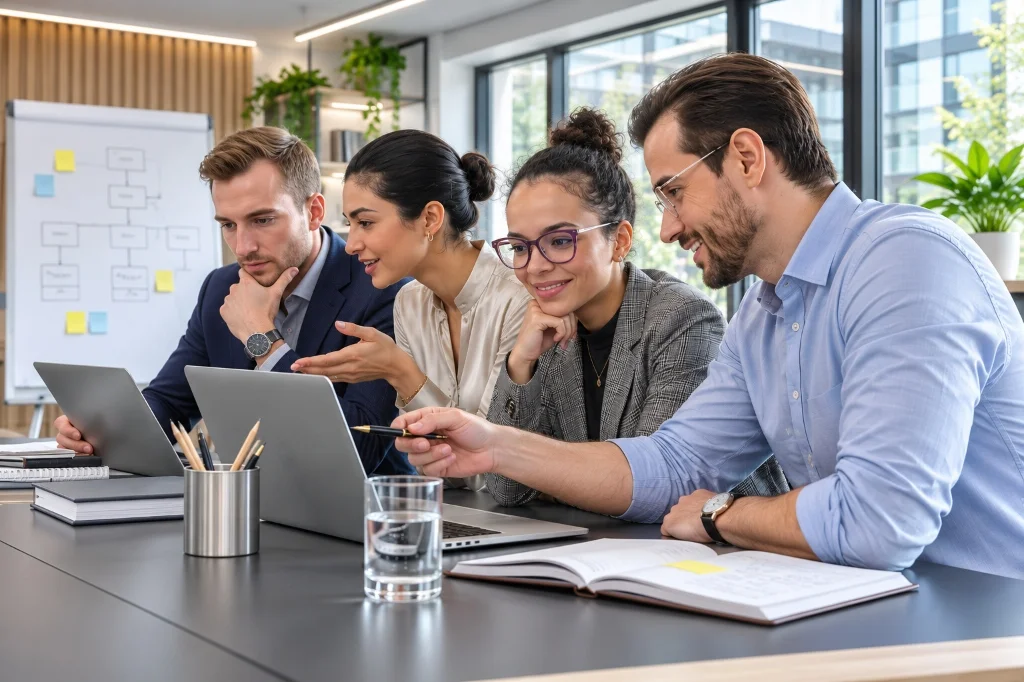
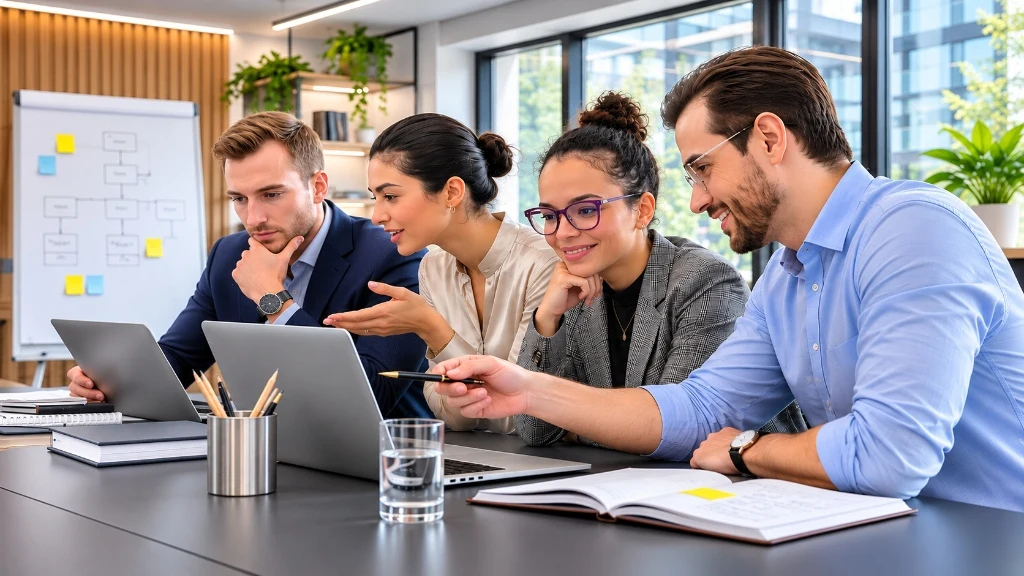
updated images

diff --git a/src/components/services/ServicesHero.tsx b/src/components/services/ServicesHero.tsx
@@ -1,8 +1,28 @@
 "use client";
 
 import Image from "next/image";
+import Link from "next/link";
 import { motion, useReducedMotion } from "framer-motion";
+import { ArrowRight, Calculator, HeartPulse, Laptop } from "lucide-react";
 import { useEffect } from "react";
+
+const serviceHighlights = [
+  {
+    icon: Calculator,
+    title: "Financial Management",
+    desc: "Accounting, bookkeeping and taxation support.",
+  },
+  {
+    icon: HeartPulse,
+    title: "Healthcare Billing",
+    desc: "Structured billing and claims management support.",
+  },
+  {
+    icon: Laptop,
+    title: "Technology Solutions",
+    desc: "IT infrastructure, cloud and technical support.",
+  },
+];
 
 export function ServicesHero() {
   const reduceMotion = useReducedMotion();
@@ -18,17 +38,17 @@ export function ServicesHero() {
   return (
     <section
       aria-labelledby="services-hero-heading"
-      className="relative overflow-hidden bg-[#0C1E2B] pt-20 lg:pt-0 lg:min-h-[540px] xl:min-h-[600px] lg:flex lg:items-center"
+      className="relative overflow-hidden bg-[#0C1E2B] pt-20 lg:pt-0 lg:min-h-[550px] lg:h-[570px] xl:h-[580px] lg:flex lg:items-center"
     >
-      {/* Right Column: Corporate Team Collaboration Photograph on desktop */}
-      <div className="relative w-full aspect-[16/11] sm:aspect-[3/2] lg:aspect-auto lg:absolute lg:inset-y-0 lg:right-0 lg:h-full lg:w-[54%] overflow-hidden">
+      {/* Right Column: Corporate Team Collaboration Photograph (~52% width) */}
+      <div className="relative w-full aspect-[16/9] lg:aspect-auto lg:absolute lg:inset-y-0 lg:right-0 lg:h-full lg:w-[52%] overflow-hidden">
         <Image
           src="/images/services-hero-team.webp"
           alt="PQB Solutions professional team collaborating closely over laptops in a modern office"
           fill
           priority
-          sizes="(max-width: 1024px) 100vw, 54vw"
-          className="object-cover object-[center_15%]"
+          sizes="(max-width: 1024px) 100vw, 52vw"
+          className="object-cover object-[center_12%]"
         />
 
         {/* Mobile vertical gradient transition */}
@@ -62,13 +82,13 @@ export function ServicesHero() {
         </svg>
       </div>
 
-      {/* Left Content Area */}
+      {/* Left Content Area within Container (~48% width, vertically centered) */}
       <div className="shell relative z-20 w-full">
-        <div className="w-full lg:w-[48%] py-12 sm:py-16 lg:py-24 xl:py-28">
+        <div className="w-full lg:w-[48%] py-10 sm:py-14 lg:py-6">
           <motion.div
-            initial={reduceMotion ? { opacity: 0 } : { opacity: 0, y: 22 }}
+            initial={reduceMotion ? { opacity: 0 } : { opacity: 0, y: 20 }}
             animate={{ opacity: 1, y: 0 }}
-            transition={{ duration: reduceMotion ? 0.2 : 0.6, ease: [0.22, 1, 0.36, 1] }}
+            transition={{ duration: reduceMotion ? 0.2 : 0.5, ease: [0.22, 1, 0.36, 1] }}
           >
             {/* Eyebrow */}
             <div className="flex items-center gap-3">
@@ -81,20 +101,59 @@ export function ServicesHero() {
             {/* H1 Main Heading */}
             <h1
               id="services-hero-heading"
-              className="mt-4 font-serif text-3xl font-bold tracking-tight text-white sm:text-4xl lg:text-[2.85rem] lg:leading-[1.18]"
+              className="mt-3.5 font-serif text-3xl font-bold tracking-tight text-white sm:text-4xl lg:text-[2.5rem] xl:text-[2.75rem] lg:leading-[1.16]"
             >
-              Comprehensive Business Support Services
+              Business Solutions That Keep You Moving Forward
             </h1>
 
-            {/* Description */}
-            <p className="mt-4.5 max-w-xl text-[0.98rem] leading-relaxed text-white/85 sm:text-base">
+            {/* Supporting Description */}
+            <p className="mt-3 max-w-xl text-[0.95rem] leading-relaxed text-white/85 sm:text-base">
               A complete range of solutions in accounting, medical billing and IT to help your
               business operate more efficiently.
             </p>
+
+            {/* Compact Service Highlights with Teal Icons */}
+            <ul className="mt-5 space-y-2.5 sm:space-y-3" role="list">
+              {serviceHighlights.map((item) => {
+                const Icon = item.icon;
+                return (
+                  <li key={item.title} className="flex items-start gap-2.5 sm:gap-3">
+                    <div className="mt-0.5 flex h-6 w-6 shrink-0 items-center justify-center rounded-md border border-brand-400/30 bg-brand-500/20 text-brand-300">
+                      <Icon size={13} className="text-brand-300" aria-hidden="true" />
+                    </div>
+                    <p className="text-xs sm:text-[0.875rem] leading-relaxed text-white/85">
+                      <strong className="font-semibold text-white">{item.title}</strong>
+                      <span className="text-white/50"> – </span>
+                      <span>{item.desc}</span>
+                    </p>
+                  </li>
+                );
+              })}
+            </ul>
+
+            {/* Dual CTA Buttons */}
+            <div className="mt-7 flex flex-wrap items-center gap-3 sm:gap-4">
+              <a
+                href="#services-overview"
+                className="group inline-flex items-center gap-2 rounded-full bg-brand-500 px-6 py-3 text-sm font-semibold text-white shadow-md shadow-brand-500/20 transition-all duration-300 hover:bg-brand-600 hover:gap-2.5 hover:-translate-y-0.5 focus-visible:outline-white"
+              >
+                <span>Explore Our Services</span>
+                <ArrowRight
+                  size={15}
+                  className="transition-transform duration-300 group-hover:translate-x-0.5"
+                />
+              </a>
+
+              <Link
+                href="/contact"
+                className="inline-flex items-center rounded-full border border-white/35 px-6 py-3 text-sm font-semibold text-white transition-all duration-300 hover:border-white hover:bg-white/10 hover:-translate-y-0.5 focus-visible:outline-white"
+              >
+                Get in Touch
+              </Link>
+            </div>
           </motion.div>
         </div>
       </div>
     </section>
   );
 }
-

diff --git a/src/components/contact/ContactHero.tsx b/src/components/contact/ContactHero.tsx
@@ -2,7 +2,23 @@
 
 import Image from "next/image";
 import { motion, useReducedMotion } from "framer-motion";
+import { ArrowRight, Calculator, HeartPulse, Laptop } from "lucide-react";
 import { useEffect } from "react";
+
+const serviceOptions = [
+  {
+    icon: Calculator,
+    label: "Accounting & Bookkeeping",
+  },
+  {
+    icon: HeartPulse,
+    label: "Medical Billing Solutions",
+  },
+  {
+    icon: Laptop,
+    label: "IT Solutions",
+  },
+];
 
 export function ContactHero() {
   const reduceMotion = useReducedMotion();
@@ -18,16 +34,16 @@ export function ContactHero() {
   return (
     <section
       aria-labelledby="contact-hero-heading"
-      className="relative overflow-hidden bg-[#0C1E2B] pt-20 lg:pt-0 lg:min-h-[540px] xl:min-h-[600px] lg:flex lg:items-center"
+      className="relative overflow-hidden bg-[#0C1E2B] pt-20 lg:pt-0 lg:min-h-[440px] lg:h-[465px] xl:h-[480px] lg:flex lg:items-center"
     >
-      {/* Right Column: Corporate Team Meeting Photograph */}
-      <div className="relative w-full aspect-[16/11] sm:aspect-[3/2] lg:aspect-auto lg:absolute lg:inset-y-0 lg:right-0 lg:h-full lg:w-[54%] overflow-hidden">
+      {/* Right Column: Corporate Team Meeting Photograph (~50% width on desktop; renders first on mobile) */}
+      <div className="relative w-full aspect-[16/9] sm:aspect-[2/1] lg:aspect-auto lg:absolute lg:inset-y-0 lg:right-0 lg:h-full lg:w-[50%] overflow-hidden">
         <Image
           src="/images/contact-hero-team.webp"
           alt="PQB Solutions professional team collaborating around a conference table with laptops and reports"
           fill
           priority
-          sizes="(max-width: 1024px) 100vw, 54vw"
+          sizes="(max-width: 1024px) 100vw, 50vw"
           className="object-cover object-[center_12%]"
         />
 
@@ -62,13 +78,13 @@ export function ContactHero() {
         </svg>
       </div>
 
-      {/* Left Content Area within Container */}
+      {/* Left Content Area within Container (~50% width, vertically centered) */}
       <div className="shell relative z-20 w-full">
-        <div className="w-full lg:w-[48%] py-12 sm:py-16 lg:py-24 xl:py-28">
+        <div className="w-full lg:w-[50%] py-10 sm:py-12 lg:py-6">
           <motion.div
-            initial={reduceMotion ? { opacity: 0 } : { opacity: 0, y: 22 }}
+            initial={reduceMotion ? { opacity: 0 } : { opacity: 0, y: 18 }}
             animate={{ opacity: 1, y: 0 }}
-            transition={{ duration: reduceMotion ? 0.2 : 0.6, ease: [0.22, 1, 0.36, 1] }}
+            transition={{ duration: reduceMotion ? 0.2 : 0.5, ease: [0.22, 1, 0.36, 1] }}
           >
             {/* Eyebrow */}
             <div className="flex items-center gap-3">
@@ -81,16 +97,52 @@ export function ContactHero() {
             {/* H1 Main Heading */}
             <h1
               id="contact-hero-heading"
-              className="mt-4 font-serif text-3xl font-bold tracking-tight text-white sm:text-4xl lg:text-[2.85rem] lg:leading-[1.18]"
+              className="mt-3.5 font-serif text-3xl font-bold tracking-tight text-white sm:text-4xl lg:text-[2.35rem] xl:text-[2.55rem] lg:leading-[1.18]"
             >
               Let&apos;s Start a Conversation
             </h1>
 
             {/* Description */}
-            <p className="mt-4.5 max-w-xl text-[0.98rem] leading-relaxed text-white/85 sm:text-base">
-              Have a question, need more information or want to discuss your
-              requirements? Our team is here to help.
+            <p className="mt-2.5 max-w-lg text-[0.92rem] leading-relaxed text-white/85 sm:text-[0.975rem]">
+              Have a question or looking for the right business support? Tell us what your
+              business needs. Our team is here to help you explore the right solutions.
             </p>
+
+            {/* Service Enquiry Overview */}
+            <div className="mt-5">
+              <span className="block text-[0.6875rem] font-bold tracking-[0.2em] text-brand-300 uppercase">
+                HOW CAN WE HELP?
+              </span>
+
+              <div className="mt-2.5 flex flex-wrap items-center gap-2 sm:gap-2.5">
+                {serviceOptions.map((service) => {
+                  const Icon = service.icon;
+                  return (
+                    <div
+                      key={service.label}
+                      className="inline-flex items-center gap-2 rounded-full border border-brand-400/30 bg-brand-500/10 px-3 py-1.5 text-xs text-white"
+                    >
+                      <Icon size={13} className="shrink-0 text-brand-300" aria-hidden="true" />
+                      <span className="font-medium">{service.label}</span>
+                    </div>
+                  );
+                })}
+              </div>
+            </div>
+
+            {/* CTA Button: Smooth scroll to #contact-form */}
+            <div className="mt-6 sm:mt-7">
+              <a
+                href="#contact-form"
+                className="group inline-flex items-center gap-2 rounded-full bg-brand-500 px-6 py-2.5 text-sm font-semibold text-white shadow-md shadow-brand-500/20 transition-all duration-300 hover:bg-brand-600 hover:gap-2.5 hover:-translate-y-0.5 focus-visible:outline-white"
+              >
+                <span>Send an Enquiry</span>
+                <ArrowRight
+                  size={15}
+                  className="transition-transform duration-300 group-hover:translate-x-0.5"
+                />
+              </a>
+            </div>
           </motion.div>
         </div>
       </div>

diff --git a/src/app/contact/page.tsx b/src/app/contact/page.tsx
@@ -4,9 +4,9 @@ import { ContactContent } from "@/components/contact/ContactContent";
 import { site } from "@/lib/site";
 
 export const metadata: Metadata = {
-  title: "Contact PQB Solutions | Get in Touch",
+  title: "Contact PQB Solutions | Let's Start a Conversation",
   description:
-    "Contact PQB Solutions to discuss accounting, medical billing and IT services. Send us an enquiry and our team will help you explore the right solutions.",
+    "Have a question or looking for the right business support? Tell us what your business needs. Our team is here to help you explore the right solutions.",
   alternates: {
     canonical: "/contact",
   },
@@ -14,9 +14,9 @@ export const metadata: Metadata = {
     type: "website",
     url: `${site.url}/contact`,
     siteName: site.name,
-    title: "Contact PQB Solutions | Get in Touch",
+    title: "Contact PQB Solutions | Let's Start a Conversation",
     description:
-      "Contact PQB Solutions to discuss accounting, medical billing and IT services. Send us an enquiry and our team will help you explore the right solutions.",
+      "Have a question or looking for the right business support? Tell us what your business needs. Our team is here to help you explore the right solutions.",
     images: [
       {
         url: "/images/contact-hero-team.webp",
@@ -28,9 +28,9 @@ export const metadata: Metadata = {
   },
   twitter: {
     card: "summary_large_image",
-    title: "Contact PQB Solutions | Get in Touch",
+    title: "Contact PQB Solutions | Let's Start a Conversation",
     description:
-      "Contact PQB Solutions to discuss accounting, medical billing and IT services. Send us an enquiry and our team will help you explore the right solutions.",
+      "Have a question or looking for the right business support? Tell us what your business needs. Our team is here to help you explore the right solutions.",
     images: ["/images/contact-hero-team.webp"],
   },
 };

diff --git a/src/app/services/page.tsx b/src/app/services/page.tsx
@@ -6,7 +6,7 @@ import { ServicesCTA } from "@/components/services/ServicesCTA";
 import { site } from "@/lib/site";
 
 export const metadata: Metadata = {
-  title: "Services | Accounting, Medical Billing & IT Solutions – PQB",
+  title: "Services | Business Solutions That Keep You Moving Forward – PQB",
   description:
     "Explore PQB Solutions' accounting, taxation, bookkeeping, medical billing and IT support services designed to help businesses operate more efficiently.",
   alternates: {
@@ -16,21 +16,21 @@ export const metadata: Metadata = {
     type: "website",
     url: `${site.url}/services`,
     siteName: site.name,
-    title: "Services | Accounting, Medical Billing & IT Solutions – PQB",
+    title: "Services | Business Solutions That Keep You Moving Forward – PQB",
     description:
       "Explore PQB Solutions' accounting, taxation, bookkeeping, medical billing and IT support services designed to help businesses operate more efficiently.",
     images: [
       {
         url: "/images/services-hero-team.webp",
         width: 1024,
-        height: 682,
+        height: 576,
         alt: "PQB Solutions Business Support Services",
       },
     ],
   },
   twitter: {
     card: "summary_large_image",
-    title: "Services | Accounting, Medical Billing & IT Solutions – PQB",
+    title: "Services | Business Solutions That Keep You Moving Forward – PQB",
     description:
       "Explore PQB Solutions' accounting, taxation, bookkeeping, medical billing and IT support services designed to help businesses operate more efficiently.",
     images: ["/images/services-hero-team.webp"],

diff --git a/src/components/contact/ContactContent.tsx b/src/components/contact/ContactContent.tsx
@@ -29,8 +29,9 @@ const contactRows = [
 export function ContactContent() {
   return (
     <section
+      id="contact-form"
       aria-labelledby="contact-form-heading"
-      className="bg-white py-16 lg:py-24"
+      className="scroll-mt-20 bg-white py-16 lg:py-24"
     >
       <div className="shell">
         <div className="grid grid-cols-1 gap-12 lg:grid-cols-[1.4fr_1px_1fr] lg:gap-14">

diff --git a/src/components/services/ServicesOverview.tsx b/src/components/services/ServicesOverview.tsx
@@ -70,7 +70,7 @@ const servicesData = [
 
 export function ServicesOverview() {
   return (
-    <div className="flex flex-col">
+    <div id="services-overview" className="flex flex-col scroll-mt-20">
       {servicesData.map((service) => {
         const Icon = service.icon;
 
